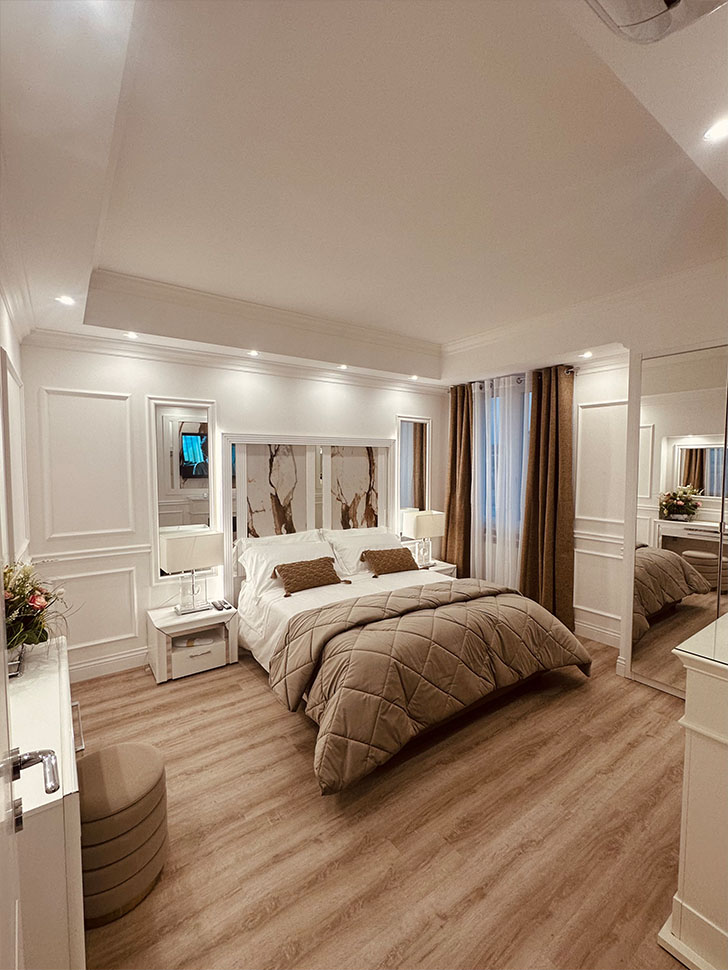
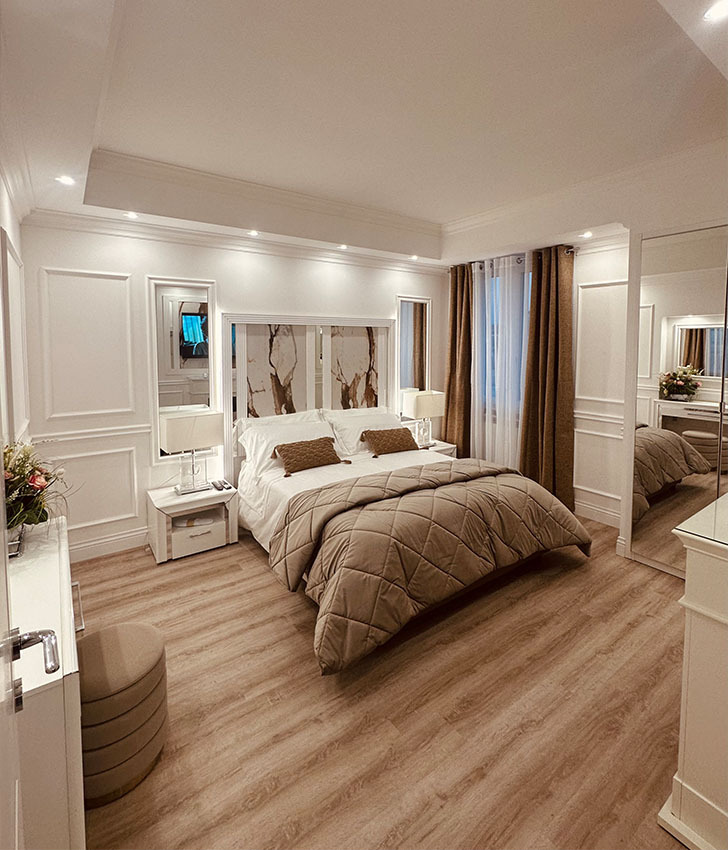
refactor: update hero copy and improve visual layout
- Change hero title to "Stile. Comfort. Roma." (IT/EN)
- Remove panoramic view references from all copy
- Crop IMG_0857 to reduce ceiling and improve composition
- Reduce spacing between hero and about section
- Add gradient transition between hero and about
- Position hero content 20vh from top
- Localize floor stat (6° IT, 6th EN)

🤖 Generated with [Claude Code](https://claude.com/claude-code)

diff --git a/src/app/[locale]/layout.tsx b/src/app/[locale]/layout.tsx
@@ -38,8 +38,8 @@ export async function generateMetadata({ params }: Props): Promise<Metadata> {
       ? "6 Al Top | Appartamento di Lusso a Roma"
       : "6 Al Top | Luxury Apartment in Rome",
     description: isItalian
-      ? "Vivi Roma dall'alto. Una suite di design al 6° piano con vista panoramica, a pochi passi dai monumenti iconici di Roma."
-      : "Experience Rome from above. A designer suite on the 6th floor with panoramic views, steps from Rome's iconic landmarks.",
+      ? "Una suite di design al 6° piano, a pochi passi dai monumenti iconici di Roma."
+      : "A designer suite on the 6th floor, steps from Rome's iconic landmarks.",
     keywords: isItalian
       ? ["appartamento lusso Roma", "casa vacanze Roma", "alloggio Stazione Termini", "affitto lusso Roma", "suite rooftop Roma"]
       : ["Rome luxury apartment", "holiday home Rome", "Termini Station accommodation", "luxury rental Rome", "rooftop suite Rome"],
@@ -56,8 +56,8 @@ export async function generateMetadata({ params }: Props): Promise<Metadata> {
         ? "6 Al Top | Appartamento di Lusso a Roma"
         : "6 Al Top | Luxury Apartment in Rome",
       description: isItalian
-        ? "Vivi Roma dall'alto. Una suite di design al 6° piano con vista panoramica e servizi di prima classe."
-        : "Experience Rome from above. A designer suite with panoramic views and world-class amenities.",
+        ? "Una suite di design al 6° piano con servizi di prima classe, a pochi passi dai monumenti iconici di Roma."
+        : "A designer suite on the 6th floor with world-class amenities, steps from Rome's iconic landmarks.",
       url: `https://www.6altop.com/${locale === 'it' ? '' : 'en'}`,
       siteName: "6 Al Top",
       locale: isItalian ? "it_IT" : "en_US",
@@ -77,8 +77,8 @@ export async function generateMetadata({ params }: Props): Promise<Metadata> {
         ? "6 Al Top | Appartamento di Lusso a Roma"
         : "6 Al Top | Luxury Apartment in Rome",
       description: isItalian
-        ? "Vivi Roma dall'alto. Una suite di design al 6° piano con vista panoramica."
-        : "Experience Rome from above. A designer suite on the 6th floor with panoramic views.",
+        ? "Una suite di design al 6° piano, a pochi passi dai monumenti iconici di Roma."
+        : "A designer suite on the 6th floor, steps from Rome's iconic landmarks.",
       images: ["https://www.6altop.com/hero-bg.png"],
     },
     robots: {
@@ -104,8 +104,8 @@ function generateJsonLd(locale: string) {
     "@id": "https://www.6altop.com/#lodging",
     name: "6 Al Top",
     description: isItalian
-      ? "Appartamento di lusso al 6° piano nel cuore di Roma, a pochi passi dalla Stazione Termini. Suite di design con vista panoramica, jacuzzi e servizi premium."
-      : "Luxury apartment on the 6th floor in the heart of Rome, steps from Termini Station. Designer suite with panoramic views, jacuzzi and premium amenities.",
+      ? "Appartamento di lusso al 6° piano nel cuore di Roma, a pochi passi dalla Stazione Termini. Suite di design con jacuzzi e servizi premium."
+      : "Luxury apartment on the 6th floor in the heart of Rome, steps from Termini Station. Designer suite with jacuzzi and premium amenities.",
     url: `https://www.6altop.com/${locale === 'it' ? '' : 'en'}`,
     telephone: "+39 327 7293 390",
     email: "info@6altop.com",

diff --git a/src/components/Hero.tsx b/src/components/Hero.tsx
@@ -10,7 +10,7 @@ export default function Hero() {
   return (
     <section
       id="home"
-      className="relative min-h-screen flex items-center justify-center overflow-hidden"
+      className="relative min-h-screen flex items-start justify-center pt-[20vh] overflow-hidden"
     >
       {/* Background */}
       <div className="absolute inset-0">
@@ -22,7 +22,7 @@ export default function Hero() {
           }}
         />
         <div className="absolute inset-0 bg-neutral-950/60" />
-        <div className="absolute inset-0 bg-gradient-to-b from-transparent via-transparent to-neutral-50 dark:to-neutral-950" />
+        <div className="absolute inset-0 bg-gradient-to-b from-transparent via-transparent to-neutral-50/70 dark:to-neutral-950/70" />
         <div className="absolute inset-0 bg-grid opacity-30" />
       </div>
 
@@ -91,7 +91,7 @@ export default function Hero() {
           className="mt-20 grid grid-cols-3 gap-8 max-w-md mx-auto"
         >
           {[
-            { value: "6th", label: t("stats.floor") },
+            { value: t("stats.floorValue"), label: t("stats.floor") },
             { value: "2min", label: t("stats.toTermini") },
             { value: "4.9", label: t("stats.guestRating"), showStar: true },
           ].map((stat) => (
@@ -111,7 +111,7 @@ export default function Hero() {
           initial={{ opacity: 0 }}
           animate={{ opacity: 1 }}
           transition={{ delay: 1.2 }}
-          className="mt-12 inline-flex flex-col items-center gap-2 text-white/50 hover:text-gold-500 dark:hover:text-gold-400 transition-colors cursor-pointer"
+          className="mt-6 inline-flex flex-col items-center gap-2 text-white/50 hover:text-gold-500 dark:hover:text-gold-400 transition-colors cursor-pointer"
         >
           <motion.div
             animate={{ y: [0, 6, 0] }}

diff --git a/src/components/About.tsx b/src/components/About.tsx
@@ -15,8 +15,10 @@ export default function About() {
   const isInView = useInView(ref, { once: true, margin: "-100px" });
 
   return (
-    <section id="apartment" className="section-padding bg-neutral-50 dark:bg-neutral-950 overflow-hidden transition-colors duration-300">
-      <div className="container-custom">
+    <section id="apartment" className="pt-8 md:pt-10 lg:pt-12 pb-24 md:pb-32 lg:pb-40 relative overflow-hidden transition-colors duration-300">
+      {/* Gradient overlay for smooth transition from hero */}
+      <div className="absolute inset-0 bg-gradient-to-b from-neutral-50/70 via-neutral-50 to-neutral-50 dark:from-neutral-950/70 dark:via-neutral-950 dark:to-neutral-950 pointer-events-none" />
+      <div className="container-custom relative z-10">
         <div ref={ref} className="grid lg:grid-cols-2 gap-12 lg:gap-20 items-center">
           {/* Image */}
           <motion.div
